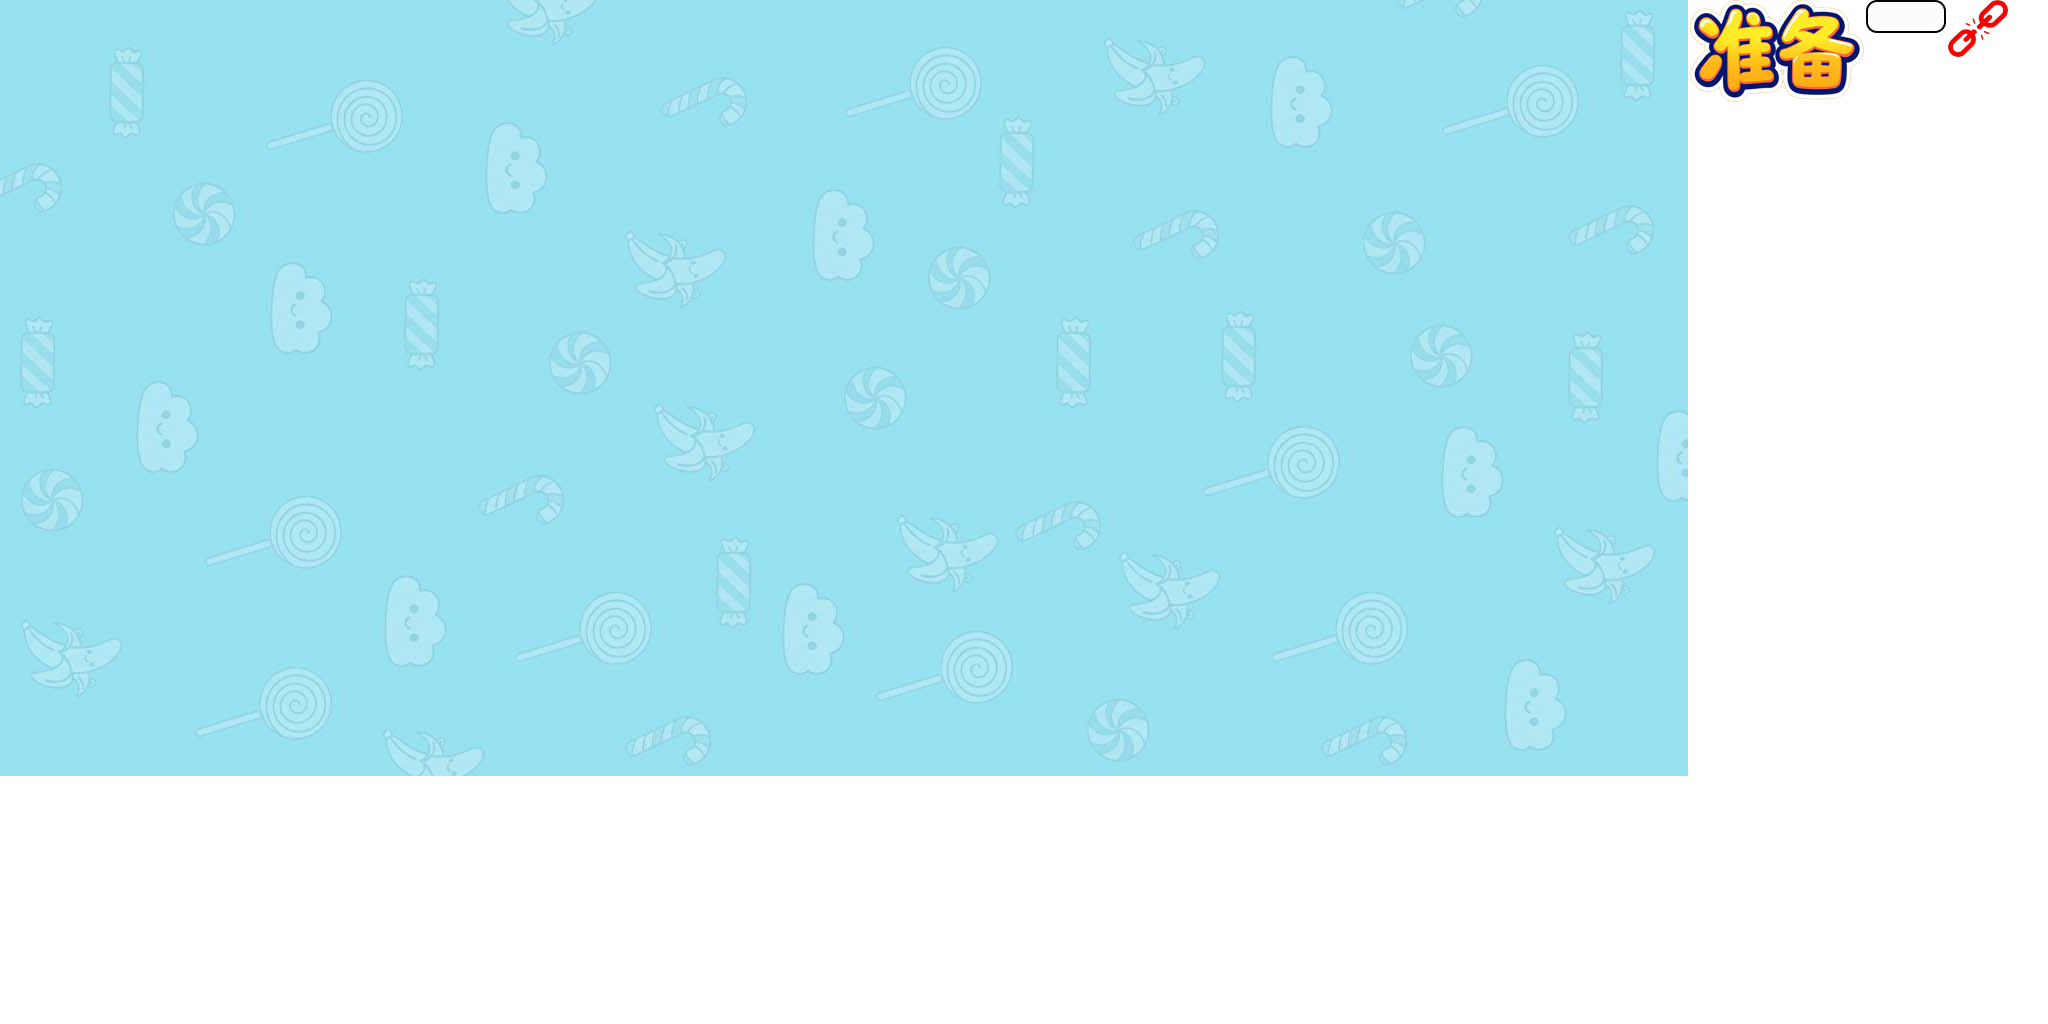
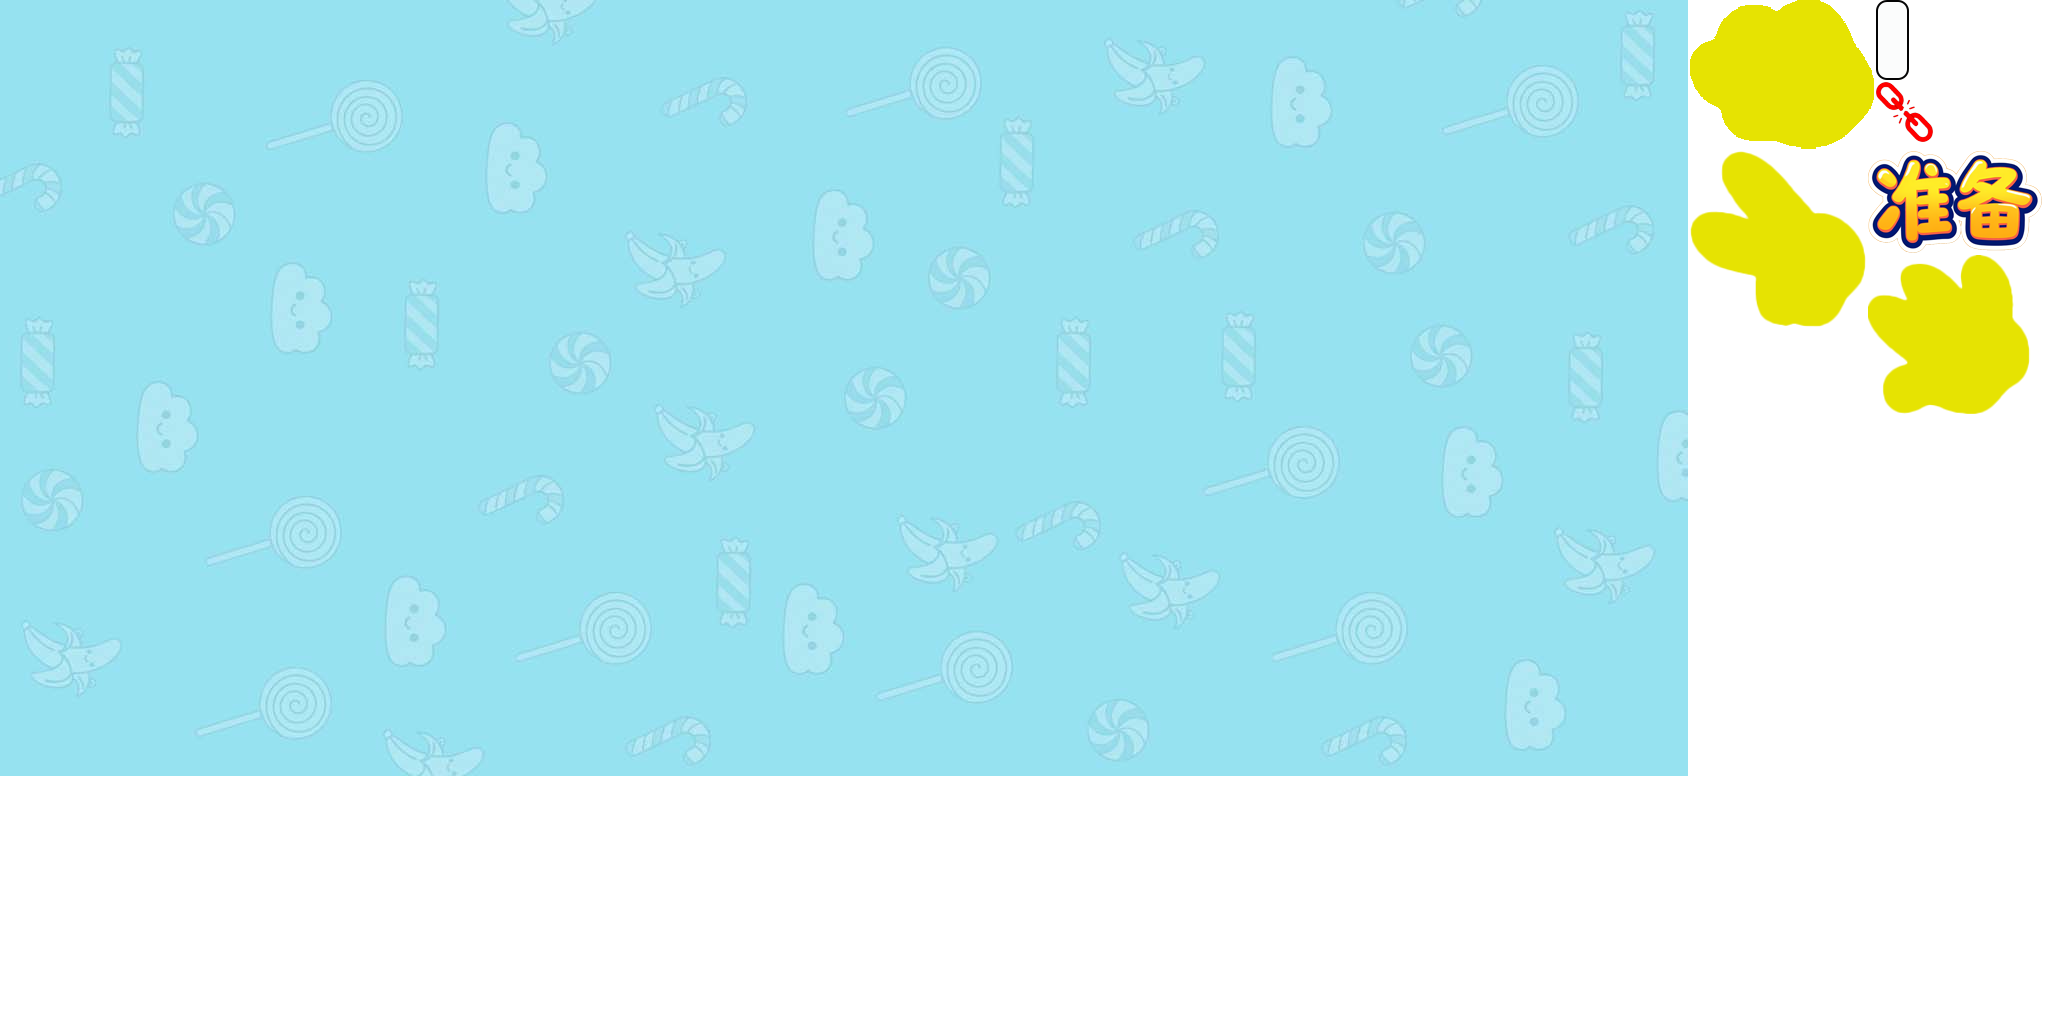
feat(fgui): 新增按钮组件实现并优化游戏界面交互
- 创建BtnSelect组件及对应资源，支持按钮状态控制和图标遮罩
- 用FGUIBtnSelect替换游戏界面中的剪刀、石头、布按钮，实现单选控制器
- 在GameView.xml中添加按钮选择控制器及相关组件定义，移除旧按钮定义
- 修改FGUIGameView.ts，添加控制器字段并绑定新的按钮组件及事件
- 添加y1.png、y2.png、y3.png图片资源，完善组件资源包配置
- 实现FGUIBtnSelect类载入和显示逻辑，实现按钮控件模块化管理

Changed region(s): [[0.8125, 0.0, 1.0, 0.4062]]

diff --git a/assets/scripts/fgui/game10001/FGUIGameView.ts b/assets/scripts/fgui/game10001/FGUIGameView.ts
@@ -5,9 +5,11 @@ import * as fgui from "fairygui-cc";
 import FGUICompOffline from "./FGUICompOffline";
 import FGUICompThinkAct from "./FGUICompThinkAct";
 import FGUICompHand from "./FGUICompHand";
+import FGUIBtnSelect from "./FGUIBtnSelect";
 
 export default class FGUIGameView extends fgui.GComponent {
 
+	public ctrl_select:fgui.Controller;
 	public UI_BTN_BACK:fgui.GButton;
 	public UI_TXT_NICKNAME_2:fgui.GTextField;
 	public UI_TXT_ID_2:fgui.GTextField;
@@ -21,12 +23,12 @@ export default class FGUIGameView extends fgui.GComponent {
 	public UI_GROUP_PLAYER_1:fgui.GGroup;
 	public UI_COMP_OUT_HEAD_1:FGUICompHand;
 	public UI_COMP_OUT_HEAD_2:FGUICompHand;
-	public UI_BTN_SCISSORS:fgui.GButton;
-	public UI_BTN_ROCK:fgui.GButton;
-	public UI_BTN_PAPER:fgui.GButton;
-	public UI_GROUP_SELECT:fgui.GGroup;
 	public UI_BTN_SURE:fgui.GButton;
 	public UI_BTN_CHANGE:fgui.GButton;
+	public UI_BTN_PAPER:FGUIBtnSelect;
+	public UI_BTN_ROCK:FGUIBtnSelect;
+	public UI_BTN_SCISSORS:FGUIBtnSelect;
+	public UI_GROUP_SELECT:fgui.GGroup;
 	public static URL:string = "ui://2zsfe53xis911";
 
 	public static packageName:string = "game10001";
@@ -66,6 +68,7 @@ export default class FGUIGameView extends fgui.GComponent {
 	}
 
 	protected onConstruct():void {
+		this.ctrl_select = this.getControllerAt(0);
 		this.UI_BTN_BACK = <fgui.GButton>(this.getChildAt(1));
 		this.UI_BTN_BACK.onClick(this.onBtnBack, this);
 		this.UI_TXT_NICKNAME_2 = <fgui.GTextField>(this.getChildAt(4));
@@ -80,23 +83,23 @@ export default class FGUIGameView extends fgui.GComponent {
 		this.UI_GROUP_PLAYER_1 = <fgui.GGroup>(this.getChildAt(15));
 		this.UI_COMP_OUT_HEAD_1 = <FGUICompHand>(this.getChildAt(16));
 		this.UI_COMP_OUT_HEAD_2 = <FGUICompHand>(this.getChildAt(17));
-		this.UI_BTN_SCISSORS = <fgui.GButton>(this.getChildAt(18));
-		this.UI_BTN_SCISSORS.onClick(this.onBtnScissors, this);
-		this.UI_BTN_ROCK = <fgui.GButton>(this.getChildAt(19));
-		this.UI_BTN_ROCK.onClick(this.onBtnRock, this);
-		this.UI_BTN_PAPER = <fgui.GButton>(this.getChildAt(20));
-		this.UI_BTN_PAPER.onClick(this.onBtnPaper, this);
-		this.UI_GROUP_SELECT = <fgui.GGroup>(this.getChildAt(21));
-		this.UI_BTN_SURE = <fgui.GButton>(this.getChildAt(22));
+		this.UI_BTN_SURE = <fgui.GButton>(this.getChildAt(18));
 		this.UI_BTN_SURE.onClick(this.onBtnSure, this);
-		this.UI_BTN_CHANGE = <fgui.GButton>(this.getChildAt(23));
+		this.UI_BTN_CHANGE = <fgui.GButton>(this.getChildAt(19));
 		this.UI_BTN_CHANGE.onClick(this.onBtnChange, this);
+		this.UI_BTN_PAPER = <FGUIBtnSelect>(this.getChildAt(21));
+		this.UI_BTN_PAPER.onClick(this.onBtnPaper, this);
+		this.UI_BTN_ROCK = <FGUIBtnSelect>(this.getChildAt(22));
+		this.UI_BTN_ROCK.onClick(this.onBtnRock, this);
+		this.UI_BTN_SCISSORS = <FGUIBtnSelect>(this.getChildAt(23));
+		this.UI_BTN_SCISSORS.onClick(this.onBtnScissors, this);
+		this.UI_GROUP_SELECT = <fgui.GGroup>(this.getChildAt(24));
 	}
 	onBtnBack():void{};
-	onBtnScissors():void{};
-	onBtnRock():void{};
-	onBtnPaper():void{};
 	onBtnSure():void{};
 	onBtnChange():void{};
+	onBtnPaper():void{};
+	onBtnRock():void{};
+	onBtnScissors():void{};
 }
 fgui.UIObjectFactory.setExtension(FGUIGameView.URL, FGUIGameView);

diff --git a/assets/scripts/fgui/game10001/FGUIBtnSelect.ts b/assets/scripts/fgui/game10001/FGUIBtnSelect.ts
@@ -1,0 +1,51 @@
+/** This is an automatically generated class by FairyGUI. Please do not modify it. **/
+
+import { assetManager, AssetManager } from "cc";
+import * as fgui from "fairygui-cc";
+
+export default class FGUIBtnSelect extends fgui.GButton {
+
+	public mask:fgui.GLoader;
+	public static URL:string = "ui://2zsfe53xqaf2f";
+
+	public static packageName:string = "game10001";
+
+	public static instance:any | null = null;
+
+	public static showView(params?:any, callBack?:(b:boolean)=>void):void {
+		if(FGUIBtnSelect.instance) {
+			console.log("allready show");
+			callBack&&callBack(false);
+			return;
+		}
+		const bundle = assetManager.getBundle("fgui") as AssetManager.Bundle;
+		fgui.UIPackage.loadPackage(bundle, this.packageName, (error, pkg)=> {
+
+			if(error){console.log("loadPackage error", error);callBack&&callBack(false);return;}
+			const view = fgui.UIPackage.createObject("game10001", "BtnSelect") as FGUIBtnSelect;
+
+			view.makeFullScreen();
+			FGUIBtnSelect.instance = view;
+			fgui.GRoot.inst.addChild(view);
+			view.show && view.show(params);
+			callBack&&callBack(true);
+		}
+		);
+	}
+
+	public static hideView():void {
+		FGUIBtnSelect.instance && FGUIBtnSelect.instance.dispose();
+		FGUIBtnSelect.instance = null;
+	}
+
+	show(data?:any):void{};
+
+	public static createInstance():FGUIBtnSelect {
+		return <FGUIBtnSelect>(fgui.UIPackage.createObject("game10001", "BtnSelect"));
+	}
+
+	protected onConstruct():void {
+		this.mask = <fgui.GLoader>(this.getChildAt(0));
+	}
+}
+fgui.UIObjectFactory.setExtension(FGUIBtnSelect.URL, FGUIBtnSelect);
